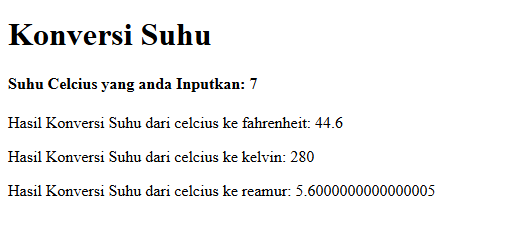
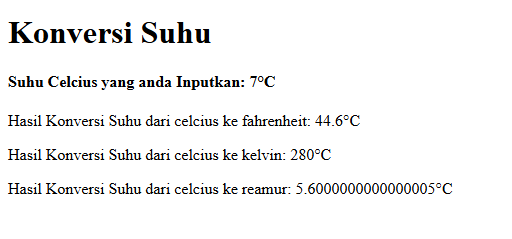
feat: add escape string

diff --git a/index.html b/index.html
@@ -7,10 +7,10 @@
 </head>
 <body>
   <h1>Konversi Suhu</h1>
-  <h4>Suhu Celcius yang anda Inputkan: <span>7</span></h4>
-  <p>Hasil Konversi Suhu dari celcius ke fahrenheit: <span>Hasil</span></p>
-  <p>Hasil Konversi Suhu dari celcius ke kelvin: <span>Hasil</span></p>
-  <p>Hasil Konversi Suhu dari celcius ke reamur: <span>Hasil</span></p>
+  <h4>Suhu Celcius yang anda Inputkan: <span>7</span>&deg;C</h4>
+  <p>Hasil Konversi Suhu dari celcius ke fahrenheit: <span>Hasil</span>&deg;C</p>
+  <p>Hasil Konversi Suhu dari celcius ke kelvin: <span>Hasil</span>&deg;C</p>
+  <p>Hasil Konversi Suhu dari celcius ke reamur: <span>Hasil</span>&deg;C</p>
   <script>
     const input = document.querySelector('h4 > span').textContent
     const c = parseInt(input)
